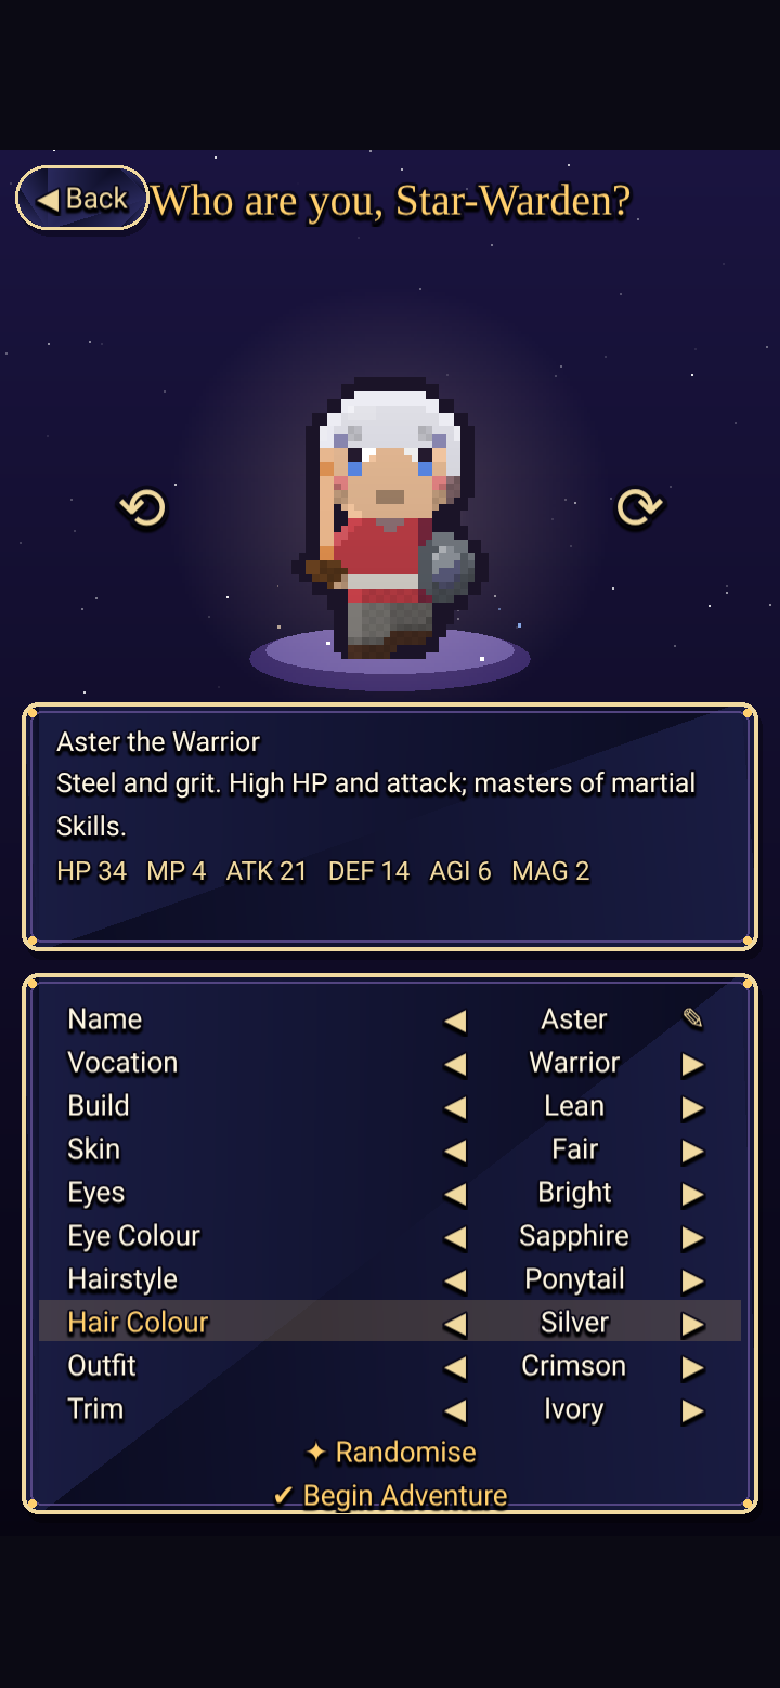
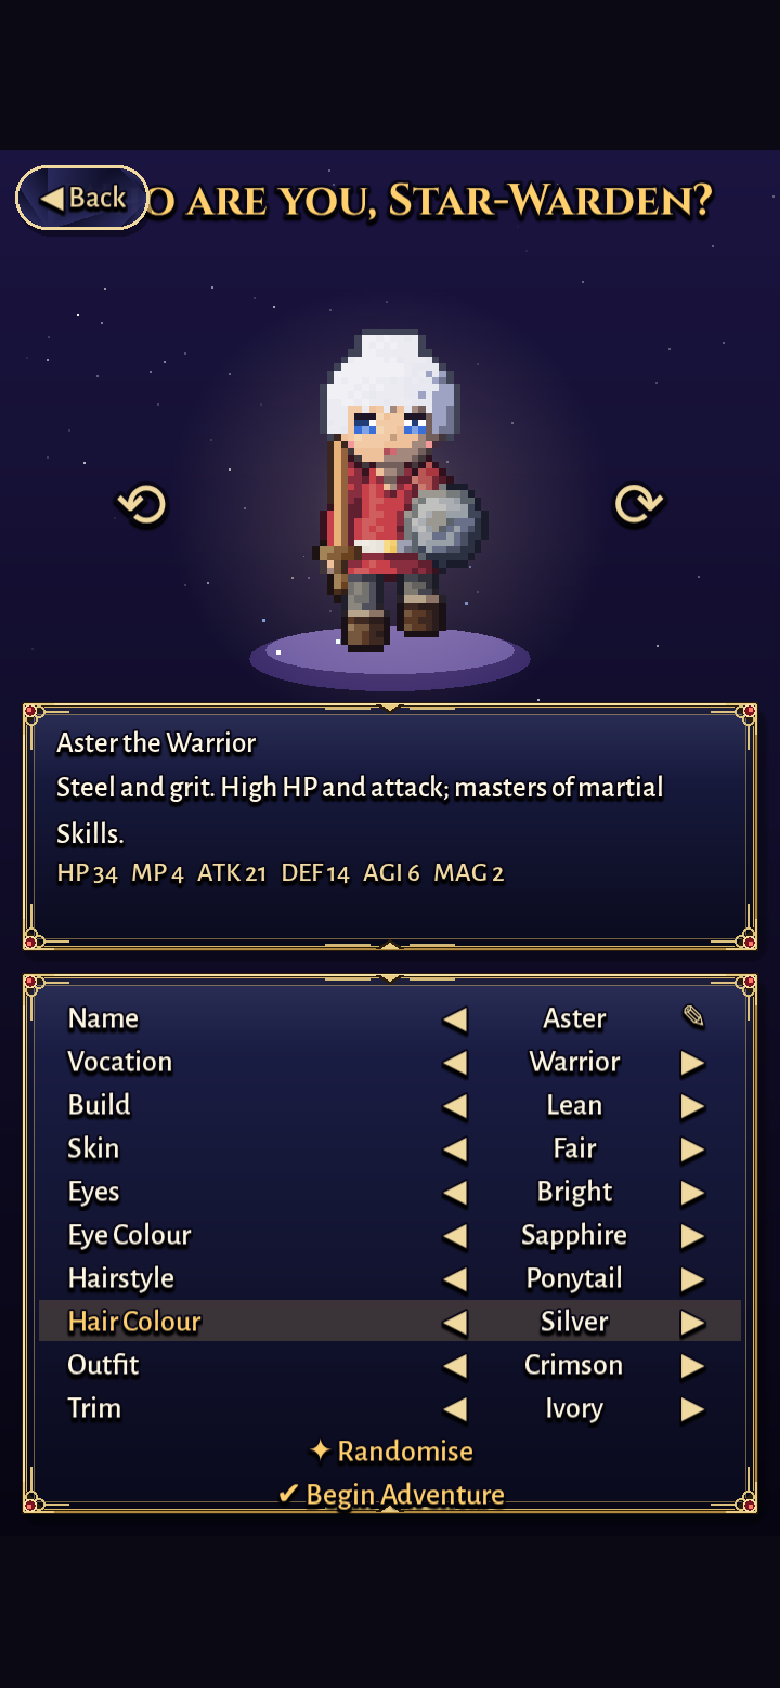
HD props: Scale4x re-shaded, y-sorted prop sprites with contact shadows; tree sway; portrait in status

diff --git a/src/scenes/WorldScene.ts b/src/scenes/WorldScene.ts
@@ -1,6 +1,14 @@
 import Phaser from 'phaser';
 import { MAPS, LEGEND, MapDef, NpcDef } from '../data/maps';
-import { T, T2 } from '../systems/art';
+import { T, T2, Pix } from '../systems/art';
+/** Scale4x + re-shaded copy of one prop tile ('props' sheet), cached as prop_hd_<idx>. */
+function ensurePropHd(scene: Phaser.Scene, idx: number): string | null {
+  const key = 'prop_hd_' + idx; if (scene.textures.exists(key)) return key;
+  const src = scene.textures.get('props').getSourceImage() as HTMLCanvasElement; const d = src.getContext('2d')!.getImageData(idx * 16, 0, 16, 16).data;
+  const p = new Pix(16, 16); let any = false;
+  for (let i = 0; i < 256; i++) if (d[i * 4 + 3] > 200) { p.d[i] = (d[i * 4] << 16) | (d[i * 4 + 1] << 8) | d[i * 4 + 2]; any = true; }
+  if (!any) return null; p.toHd4(scene, key); return key;
+}
 import { propTiles } from '../systems/props';
 import { Game, stats } from '../systems/state';
 import { ensureDollHd as ensureDoll, specOf, FH } from '../systems/paperdoll';
@@ -109,7 +117,7 @@ export class WorldScene extends Phaser.Scene {
       }
       for (const t of st.trees) {
         const im = this.add.image(t.x * TS + 8, t.y * TS + 17, 'hdtrees', t.kind + t.v).setOrigin(0.5, 1).setScale(1 / HD).setDepth(10 + t.y * TS + 16).setFlipX(((t.x * 7 + t.y * 3) % 5) < 2);
-        this.trees.push(im);
+        this.trees.push(im); im.setData('ph', (t.x * 0.7 + t.y * 0.3));
       }
       ensureTallGrass(this);
       for (let y = 0; y < h; y++) for (let x = 0; x < w; x++) { const c = this.grid[y][x]; if (c !== '"' && c !== '&') continue;
@@ -141,7 +149,17 @@ export class WorldScene extends Phaser.Scene {
       if (!any) return;
       const me = this.make.tilemap({ data, tileWidth: TS, tileHeight: TS }); const tse = me.addTilesetImage('tiles', 'tiles', TS, TS, 0, 0)!; me.createLayer(0, tse, 0, 0)!.setDepth(0.5);
     });
-    if (anyProp) { const mp = this.make.tilemap({ data: props, tileWidth: TS, tileHeight: TS }); const tsp = mp.addTilesetImage('props', 'props', TS, TS, 0, 0)!; mp.createLayer(0, tsp, 0, 0)!.setDepth(0.6); }
+    if (anyProp) {
+      // HD props (round 3): each prop tile Scale4x + re-shaded, y-sorted with the characters, with a soft contact shadow
+      const flat = new Set<number>([T2.net, T2.rocks, T2.log, T2.boat, T2.dockCrates].filter(v => v !== undefined));
+      for (let y = 0; y < h; y++) for (let x = 0; x < w; x++) { const t = props[y][x]; if (t < 0) continue;
+        const key = ensurePropHd(this, t);
+        if (!key) continue;
+        const im = this.add.image(x * TS - 0.5, y * TS - 0.5, key).setOrigin(0).setScale(0.25);
+        im.setDepth(flat.has(t) ? 0.6 : 10 + y * TS + 14);
+        if (!flat.has(t)) this.add.image(x * TS + 8, y * TS + 15, 'shadow').setScale(0.9, 0.9).setAlpha(0.55).setDepth(0.55);
+      }
+    }
     const m2 = this.make.tilemap({ data: over, tileWidth: TS, tileHeight: TS });
     const ts2 = m2.addTilesetImage('tiles', 'tiles', TS, TS, 0, 0)!;
     m2.createLayer(0, ts2, 0, 0)!.setDepth(5000);
@@ -363,6 +381,7 @@ export class WorldScene extends Phaser.Scene {
     return ok;
   }
   update(time: number, dt: number) {
+    if (DioramaFX.quality > 0 && this.def.outdoor) { const wv = time * 0.0011; for (const tr of this.trees) tr.angle = Math.sin(wv + tr.getData('ph')) * 0.9 + Math.sin(wv * 2.3 + tr.getData('ph') * 1.7) * 0.3; }
     if (Game.dirty && time - Game.lastAuto > 900 && this.canAutosave()) this.autosave();
     else if (!Game.dirty && time - Game.lastAuto > 60000 && this.canAutosave()) { Game.markDirty('periodic'); }
     this.drawLighting();

diff --git a/src/scenes/UIScene.ts b/src/scenes/UIScene.ts
@@ -12,6 +12,7 @@ import { ensureDollHd as ensureDoll, specOf } from '../systems/paperdoll';
 import type { WorldScene } from './WorldScene';
 import { MAPS } from '../data/maps';
 import type { DollSpec } from '../systems/paperdoll';
+import { ensurePortrait } from '../gfx/portrait';
 
 const SHOPS: Record<string, string[]> = {
   weapons: ['stick', 'dagger', 'shortsword', 'mace', 'wand', 'bronzeAxe', 'ironsword'],
@@ -226,7 +227,9 @@ export class UIScene extends Phaser.Scene {
       const c = this.add.container(0, 0).setDepth(1300);
       c.add(this.add.rectangle(0, 0, W, H, 0x05040c, 0.9).setOrigin(0).setInteractive());
       c.add(panel(this, 20, 120, W - 40, 1040));
-      const key = ensureDoll(this, specOf(mm)); const d = this.add.sprite(170, 480, key, 0).setOrigin(0.5, 1).setScale(5.5); c.add(d);
+      { const pk = ensurePortrait(this, specOf(mm)); const bg = this.add.graphics(); bg.fillStyle(0x0a0b1e, 0.8); bg.fillRect(44, 146, 252, 282); bg.lineStyle(2, 0xe8cc84, 1); bg.strokeRect(44, 146, 252, 282); c.add(bg); c.add(this.add.image(50, 152, pk).setOrigin(0).setCrop(0, 0, 240, 270)); }
+      const key = ensureDoll(this, specOf(mm)); const d = this.add.sprite(230, 600, key, 0).setOrigin(0.5, 1).setScale(3.4); c.add(d);
+      c.add(this.add.image(230, 598, 'shadow').setScale(5, 2).setAlpha(0.6)); c.bringToTop(d);
       this.time.addEvent({ delay: 250, repeat: 40, callback: () => d.active && d.setFrame([0, 1, 0, 2][Math.floor(this.time.now / 250) % 4]) });
       c.add(txt(this, 330, 160, mm.name, 44, COL.accent, { fontFamily: SERIF }));
       c.add(txt(this, 330, 220, `${v.name}  ·  Level ${mm.level}`, 28));

diff --git a/GFX_PROGRESS.md b/GFX_PROGRESS.md
@@ -14,15 +14,19 @@ Regression tests: run against a *built* copy so Vite HMR reloads don't break the
 ## Done
 - [x] Smooth movement: per-frame integrator with overshoot carry (no stall between tiles), stride-synced walk frames + bob, sub-pixel camera (roundPixels off, softer lerp).
 - [x] HD ground painter `src/gfx/ground.ts` (2 texels/world px, domain-warped organic borders, tufts, flowers, flagstones, cobbles, dungeon/cave stone, wall tops/faces, cliffs, wet sand, water layer with depth colour + foam).
+- [x] HD structures `src/gfx/structures.ts`: tall timber/stone houses, shingled roofs with ridge + chimney smoke, lit windows at night, bell tower; tree atlas (oak/autumn/pine), tall-grass overlays that rustle; blurred cast shadows + contact AO baked into the ground.
+- [x] Water shader `src/fx/water.ts`: ripple distortion, caustics, sky reflection, glints.
+- [x] Lighting: multiplied colour light map, flickering coloured point lights, warm window light at night.
+- [x] Post FX v3 `src/fx/diorama.ts`: bokeh tilt-shift DOF following the hero, two-ring bloom, animated god rays, split-tone grade + S-curve.
+- [x] Characters `src/gfx/doll2.ts`: 32x48 HD dolls from shaded primitives, 5-tone hue-shifted ramps, dithering, occlusion + sel-out outlines; every gear piece drawn natively; longer stride.
+- [x] Battles: painted perspective backdrops for 7 biomes (`src/gfx/backdrop.ts`); monsters Scale4x + distance-field re-shaded with rim light (`Pix.toHd4`); bigger party; OT2-style dash attacks with camera lean + dust; ornate party cards with mini-portraits; bevelled gauges.
+- [x] UI: bundled fonts (Cinzel / Cinzel Decorative / Alegreya Sans), ornate gold filigree windows everywhere (`drawPanel`).
+- [x] Dialogue busts (`src/gfx/portrait.ts`): painted anime-style portraits generated from each speaker's look + gear (party + every named NPC).
+- [x] Title: painted 4-layer parallax vista (`src/gfx/titleart.ts`), HD hero + companion on the cliff, gold Cinzel Decorative logo with filigree + glints, bloom/ray grade.
+- [x] Transitions: diamond-tile wipe for area changes; freeze-frame shatter into battle (Overlay scene).
 
 ## Next
-- [ ] HD structures: houses with tall walls/roofs/chimneys, big trees (oak/pine/autumn), cast shadows baked into ground.
-- [ ] Water shader (ripples, sparkle, reflection) on the water layer.
-- [ ] Lighting: multiply colour lightmap, window glow at night, torch flicker.
-- [ ] Post FX: better DOF / bloom / god rays / grading.
-- [ ] Characters: idle breathing, softer shadows.
-- [ ] Battle overhaul: backdrops, big sprites, VFX, camera, ornate UI.
-- [ ] Interiors.
+- [ ] HD props (crates, signs, lanterns, bridges), interiors pass, roof gables.
 - [ ] APK + release v0.3.0.
 
 ## Scope update (user, 11:16)
